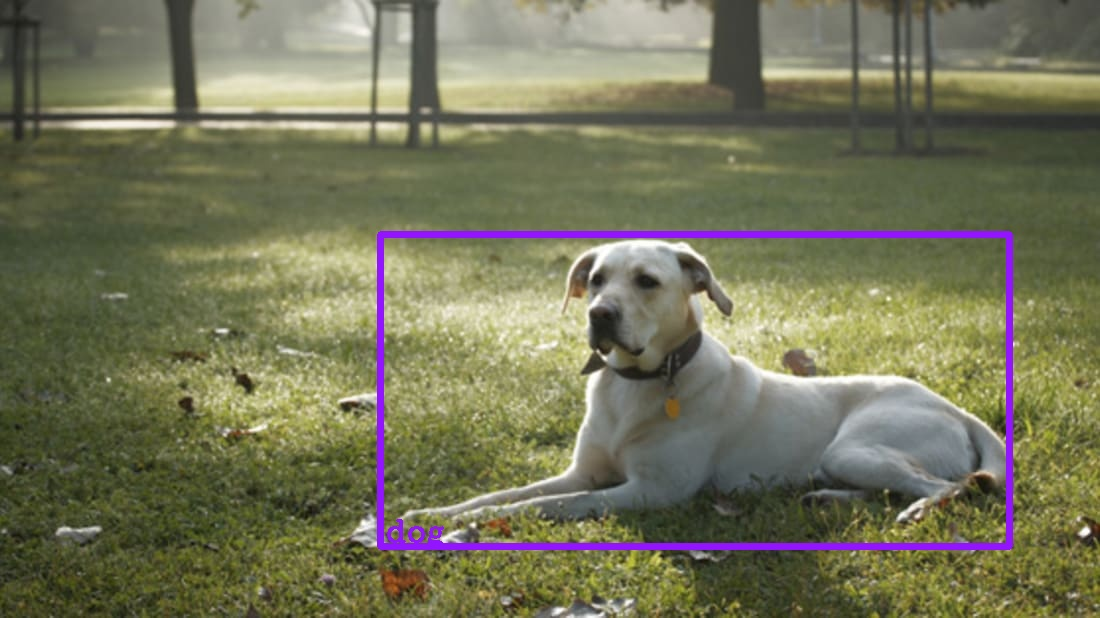
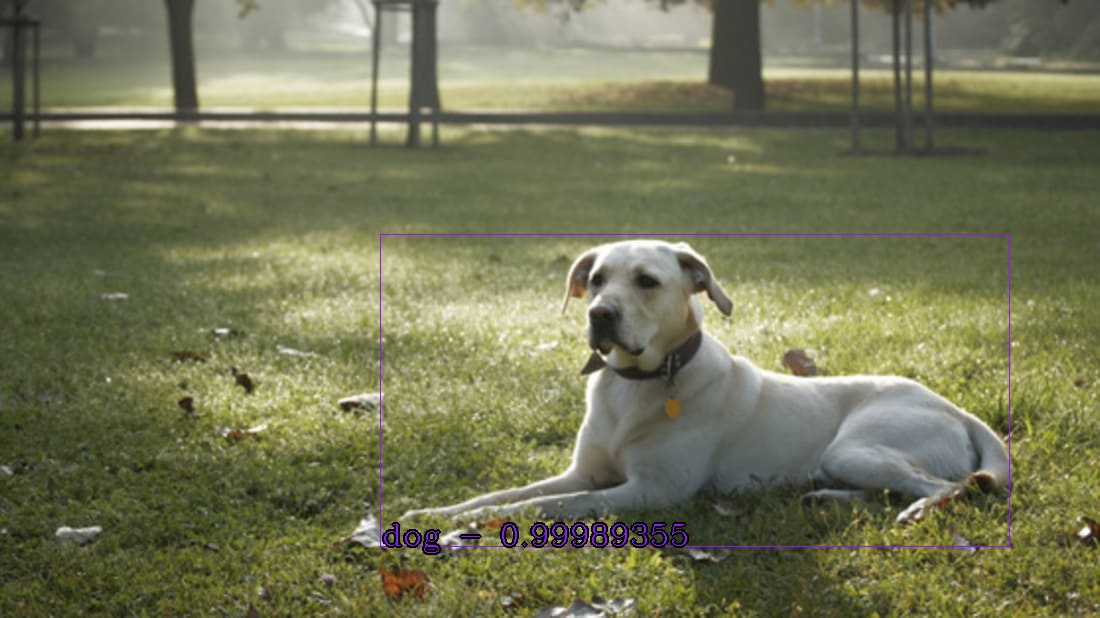
improved bounding box drawer

Changed region(s): [[0.34, 0.3689, 0.9273, 0.8916]]

diff --git a/bounding-box-drawer/main.py b/bounding-box-drawer/main.py
@@ -15,9 +15,8 @@ PREDICTION_RESULT_PATHS = sorted(list(PATH_TO_PREDICTION_RESULTS.glob("*.json"))
 
 LABEL_COLOR = (255, 20, 147)
 RECT_COLOR = (255, 20, 147)
-RECT_BORDER_WIDTH = 5
-LABEL_FONT_WIDTH = 2
-MIN_CONFIDENCE_TO_PRINT = 0.5
+RECT_BORDER_WIDTH = 1
+LABEL_FONT_WIDTH = 1
 
 if __name__ == '__main__':
     for result_path in PREDICTION_RESULT_PATHS:
@@ -39,17 +38,24 @@ if __name__ == '__main__':
 
             cv_image = cv2.imread(img_path)
 
-            for prediction_object in prediction["objects"]:
+            for idx, prediction_object in enumerate(prediction["objects"]):
+                if (idx > 5):
+                    break
                 coords_transformer = Coords_Transformator(img_path, prediction_object["relative_coordinates"])
-                if float(prediction_object['confidence']) > MIN_CONFIDENCE_TO_PRINT:
-                    coords = coords_transformer.get_coords_in_pixels()
-                    min_tupel = (int(coords['xmin']), int(coords['ymin']))
-                    max_tupel = (int(coords['xmax']), int(coords['ymax']))
-
-                    cv_image = cv2.rectangle(cv_image, min_tupel, max_tupel, RECT_COLOR, RECT_BORDER_WIDTH)
-                    cv_image = cv2.putText(cv_image, prediction_object["name"],
-                                           (min_tupel[0] + RECT_BORDER_WIDTH, max_tupel[1] - RECT_BORDER_WIDTH),
-                                           cv2.FONT_HERSHEY_COMPLEX, 1, LABEL_COLOR, LABEL_FONT_WIDTH)
+                coords = coords_transformer.get_coords_in_pixels()
+                min_tupel = (int(coords['xmin']), int(coords['ymin']))
+                max_tupel = (int(coords['xmax']), int(coords['ymax']))
+                cv_image = cv2.rectangle(cv_image, min_tupel, max_tupel, RECT_COLOR, RECT_BORDER_WIDTH)
+                # black background
+                cv_image = cv2.putText(cv_image,
+                                       prediction_object["name"] + ' - ' + str(prediction_object['confidence']),
+                                       (min_tupel[0] + RECT_BORDER_WIDTH, max_tupel[1] - RECT_BORDER_WIDTH),
+                                       cv2.FONT_HERSHEY_COMPLEX, 1, (0, 0), LABEL_FONT_WIDTH*3)
+                # real annotation
+                cv_image = cv2.putText(cv_image,
+                                       prediction_object["name"] + ' - ' + str(prediction_object['confidence']),
+                                       (min_tupel[0] + RECT_BORDER_WIDTH, max_tupel[1] - RECT_BORDER_WIDTH),
+                                       cv2.FONT_HERSHEY_COMPLEX, 1, LABEL_COLOR, LABEL_FONT_WIDTH)
 
             cv2.imwrite(
                 FileHandler.add_suffix_and_sub_directory(img_path, model_name, '--bounding-boxes'),

diff --git a/tensorflow-object-detection/notebooks/pipeline.py b/tensorflow-object-detection/notebooks/pipeline.py
@@ -11,7 +11,8 @@ class Pipeline:
         self.result = []
 
     def predict(self, img_path):
-        self.result.append(self.predictor.predict(img_path))
+        prediction_result = self.predictor.predict(img_path)
+        self.result.append(prediction_result)
 
     def persist(self):
         self.persister.append_to_json(self.result)
